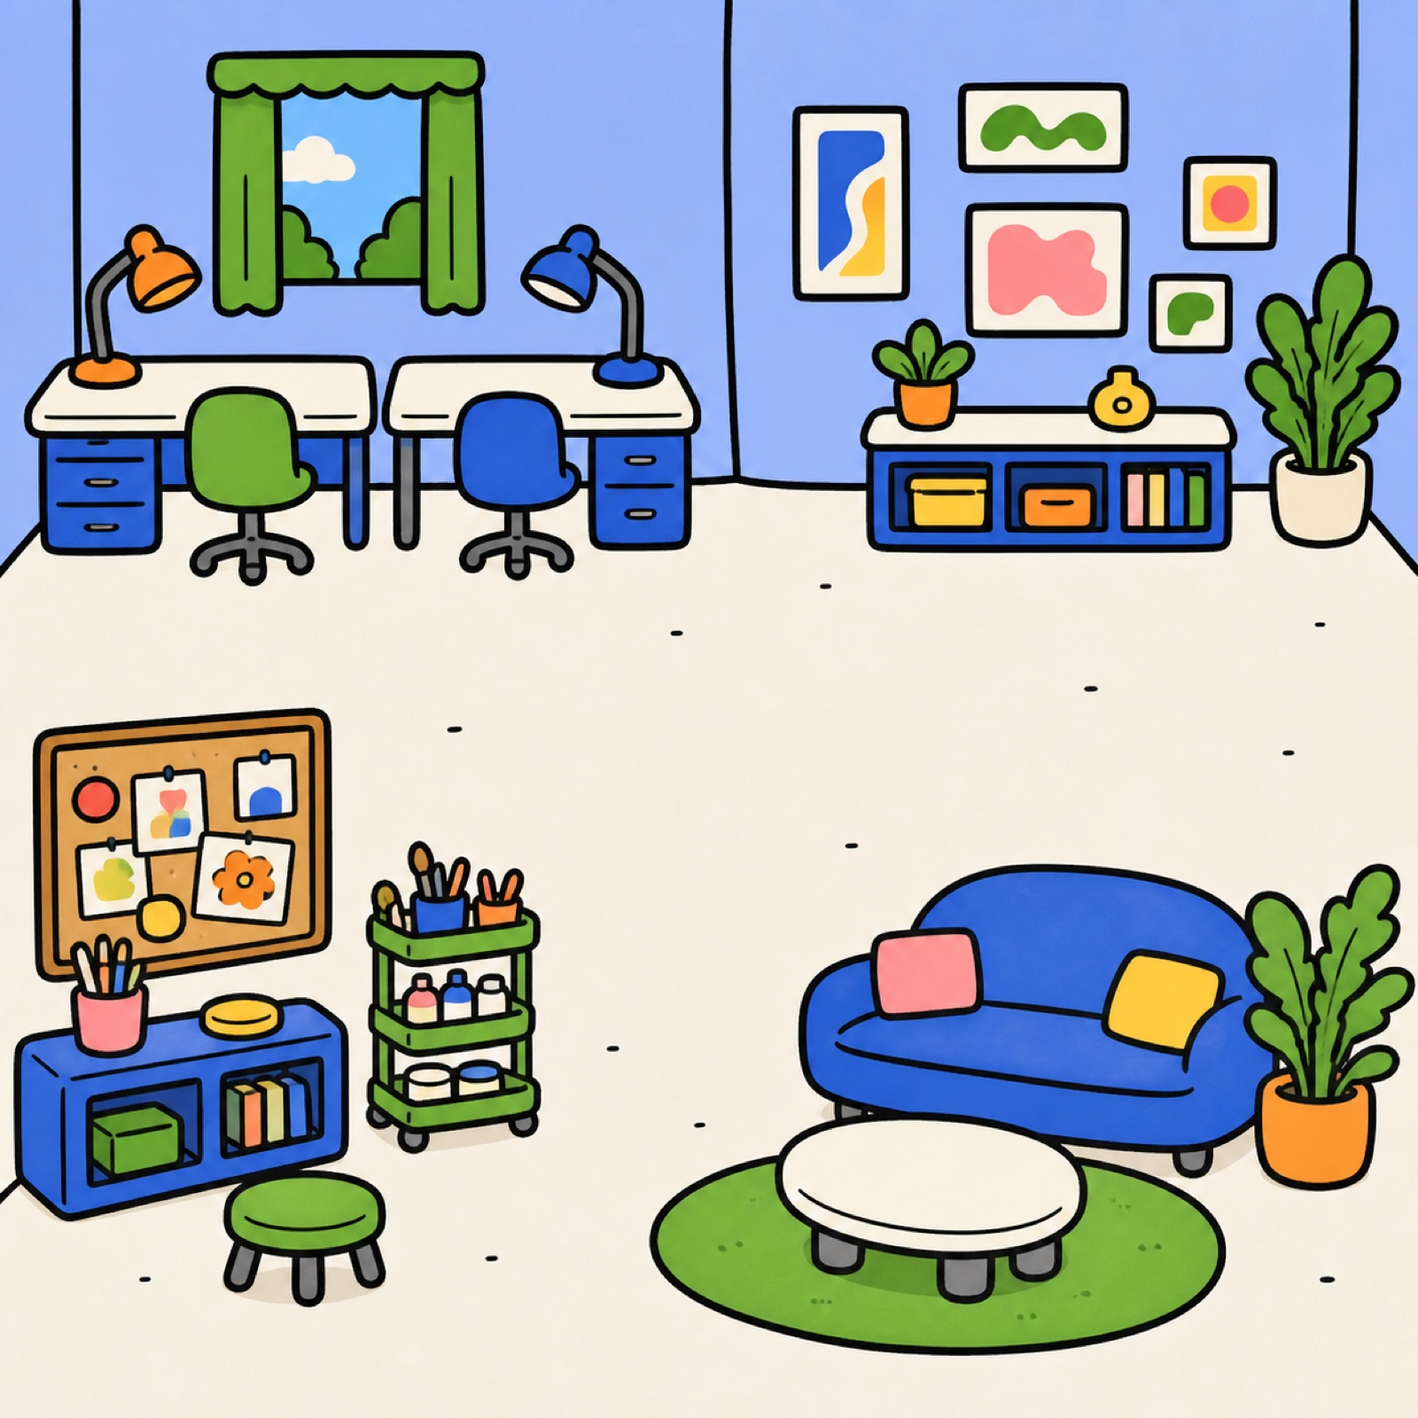
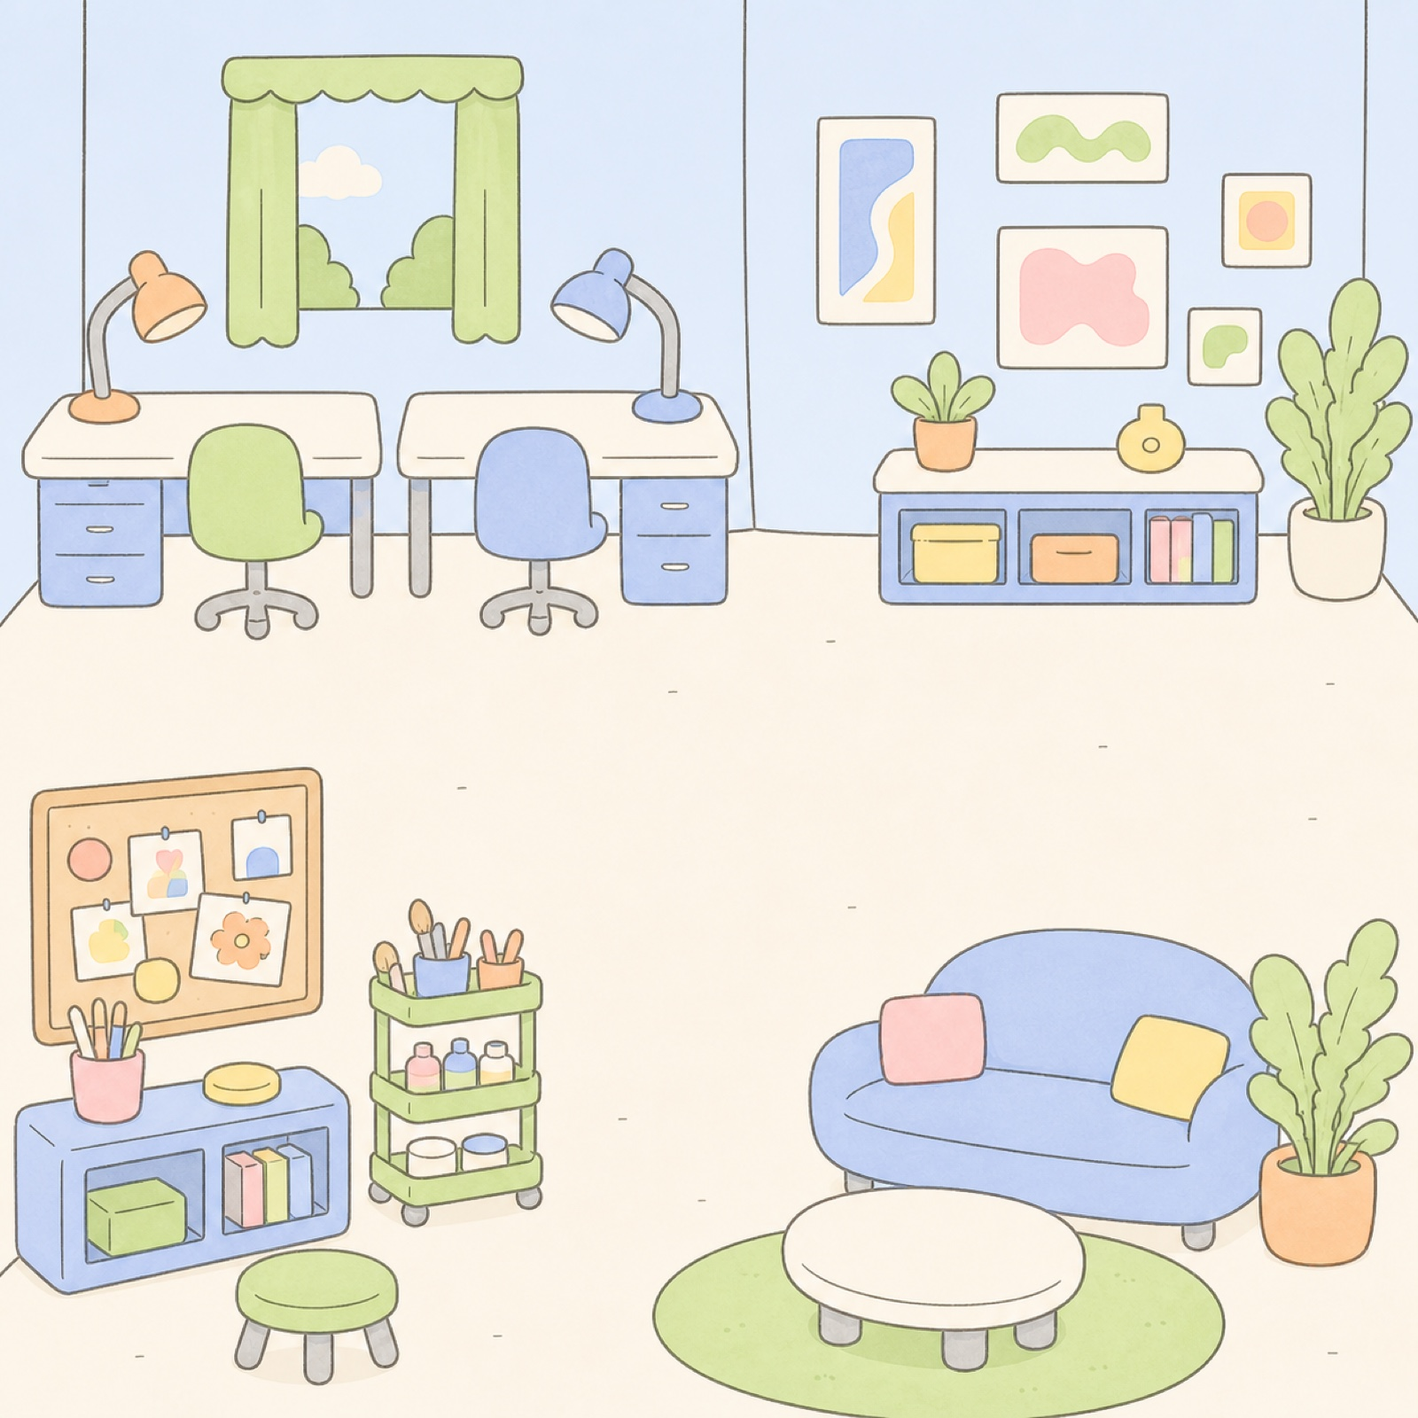
파스텔 공동 작업실을 한 화면 지도로 통합

diff --git a/app/globals.css b/app/globals.css
@@ -339,51 +339,52 @@ body::before { opacity: .15; }
 
 /* OTW cartoon world — bright card-news colors, bold ink lines, fewer dashboard cards. */
 :root {
-  --paper: #edf4ff;
-  --paper-deep: #eef7cf;
+  --paper: #f0f5fc;
+  --paper-deep: #f1f6dc;
   --ink: #17191b;
-  --green: #58a84f;
-  --moss: #508b50;
-  --sage: #b8dc85;
-  --blue: #668cf0;
-  --apricot: #ffad4f;
-  --pink: #ff91ab;
+  --green: #93bf82;
+  --moss: #6f9d72;
+  --sage: #c7dda2;
+  --blue: #9fb7ea;
+  --apricot: #f2bc7a;
+  --pink: #efafbe;
   --line: #242424;
   --white: #fffefa;
   --shadow: none;
 }
 
-html { background: #dbe9ff; }
-body { background: #edf4ff; color: var(--ink); }
+html { background: #e3ebf7; }
+body { background: #f0f5fc; color: var(--ink); }
 body::before { opacity: .1; background-image: radial-gradient(#315a9e .65px, transparent .7px); background-size: 15px 15px; }
 button:focus-visible, input:focus-visible, textarea:focus-visible, label:has(input:focus-visible) { outline-color: rgba(78,123,224,.42); }
 
 .eyebrow { color: #3972ca; letter-spacing: .12em; }
 .paper-card { border: 1.5px solid var(--ink); border-radius: 14px; background: #fffefa; }
 .primary-button, .secondary-button { min-height: 48px; border: 1.5px solid var(--ink); border-radius: 11px; box-shadow: 3px 3px 0 var(--ink); }
-.primary-button { color: #fff; background: #4c79e5; }
+.primary-button { color: #192b4c; background: #9fb7ea; }
 .primary-button:active, .secondary-button:active { transform: translate(3px, 3px); box-shadow: none; }
 .primary-button:disabled { border-color: #899384; color: #f5f5ef; background: #a9bba8; box-shadow: none; }
 .secondary-button { background: #eef7cf; }
 .text-input, .completion-modal textarea, .enrollment-card textarea, .teacher-note textarea, .roster-manager textarea { border: 1.5px solid var(--ink); border-radius: 9px; background: #fff; }
 .success-message { margin: 0; color: #31773b; font-size: 11px; font-weight: 800; }
 
-.signin-shell, .enrollment-shell, .onboarding-shell { background: linear-gradient(150deg, #edf4ff 0 58%, #eef7cf 58%); }
+.signin-shell, .enrollment-shell, .onboarding-shell { background: linear-gradient(150deg, #f0f5fc 0 58%, #f1f6dc 58%); }
 .signin-card, .enrollment-card, .onboarding-card { border: 1.5px solid var(--ink); border-radius: 16px; background: #fffefa; box-shadow: 6px 6px 0 rgba(23,25,27,.9); }
-.signin-button { border: 1.5px solid var(--ink); border-radius: 10px; color: #fff; background: #4c79e5; box-shadow: 3px 3px 0 var(--ink); }
+.signin-button { border: 1.5px solid var(--ink); border-radius: 10px; color: #192b4c; background: #9fb7ea; box-shadow: 3px 3px 0 var(--ink); }
 .student-results button, .preset-grid button { border: 1.5px solid var(--ink); border-radius: 10px; background: #fff; }
 .student-results button.selected, .preset-grid button.selected { border: 2px solid var(--ink); background: #eef7cf; box-shadow: 3px 3px 0 #4c79e5; }
 .character-nameplate { border: 1.5px solid var(--ink); background: #fff; box-shadow: 2px 2px 0 var(--ink); }
-.onboarding-promise > span { border: 2px solid var(--ink); background: #4c79e5; box-shadow: 3px 3px 0 var(--ink); }
+.onboarding-promise > span { border: 2px solid var(--ink); color: #192b4c; background: #9fb7ea; box-shadow: 3px 3px 0 var(--ink); }
 
 .character-image.official { mix-blend-mode: normal; filter: drop-shadow(0 5px 0 rgba(0,0,0,.08)) !important; }
+.character-image { max-width: none; }
 .preset-grid .character-image { width: 76px; height: 76px; }
 .preset-grid button { min-height: 112px; }
 .preset-grid button > span { color: #3d65b4; font-size: 10px; text-transform: lowercase; }
 
-.app-shell { border-inline: 1.5px solid var(--ink); background: linear-gradient(180deg, #edf4ff 0%, #f7fbec 100%); }
+.app-shell { border-inline: 1.5px solid var(--ink); background: linear-gradient(180deg, #f0f5fc 0%, #f7faed 100%); }
 .brand-bar { border-bottom: 1.5px solid var(--ink); background: rgba(255,254,250,.96); }
-.brand-mark { border: 1.5px solid var(--ink); border-radius: 9px; color: #fff; background: #4c79e5; }
+.brand-mark { border: 1.5px solid var(--ink); border-radius: 9px; color: #192b4c; background: #9fb7ea; }
 .brand-bar .profile-chip { border: 1.5px solid var(--ink); border-radius: 10px; background: #fff; box-shadow: 2px 2px 0 var(--ink); }
 .panel-stack { gap: 22px; }
 .home-greeting h2, .section-header h2, .record-section h2, .gallery-panel section > h2, .journey-card h2 { color: #17191b; }
@@ -391,7 +392,7 @@ button:focus-visible, input:focus-visible, textarea:focus-visible, label:has(inp
 
 .studio-scene {
   height: 326px;
-  border: 3px solid var(--ink);
+  border: 2px solid var(--ink);
   border-radius: 18px;
   background-color: #86a5ef;
   background-image: url("/studio-room.jpg");
@@ -404,67 +405,139 @@ button:focus-visible, input:focus-visible, textarea:focus-visible, label:has(inp
 .scene-nameplate { bottom: 9px; border: 1.5px solid var(--ink); border-radius: 7px; background: #fff; box-shadow: 2px 2px 0 var(--ink); }
 .character-shadow { display: none; }
 .lamp-glow { top: 88px; right: 50px; background: #fff1a9; box-shadow: 0 0 22px 12px rgba(255,226,119,.76); }
-.room-progress-head button { border: 1.5px solid var(--ink); border-radius: 9px; color: #fff; background: #58a84f; box-shadow: 2px 2px 0 var(--ink); }
+.room-progress-head button { border: 1.5px solid var(--ink); border-radius: 9px; color: #21331f; background: #a8ca96; box-shadow: 2px 2px 0 var(--ink); }
 .progress-track { border: 1px solid rgba(23,25,27,.45); background: #fff; }
-.progress-track i { background: #4c79e5; }
+.progress-track i { background: #9fb7ea; }
 
 .category-pill { border: 1.5px solid var(--ink); border-radius: 9px; background: #fff; }
-.category-pill.active { border-color: var(--ink); color: #fff; background: #4c79e5; box-shadow: 2px 2px 0 var(--ink); }
+.category-pill.active { border-color: var(--ink); color: #192b4c; background: #9fb7ea; box-shadow: 2px 2px 0 var(--ink); }
 .timer-card { border: 2px solid var(--ink); background: #fffefa; }
 .timer-presets { border: 1.5px solid var(--ink); border-radius: 9px; background: #eef4ff; }
 .timer-presets button { border-right-color: var(--ink); }
-.timer-presets button.active { color: #fff; background: #58a84f; }
-.timer-ring { background: conic-gradient(#4c79e5 var(--timer-progress), #dfe9ff 0); }
+.timer-presets button.active { color: #21331f; background: #a8ca96; }
+.timer-ring { background: conic-gradient(#9fb7ea var(--timer-progress), #dfe9f7 0); }
 .timer-ring::before { background: #fffefa; }
 .finish-button { border: 1.5px solid var(--ink); border-radius: 11px; color: var(--ink); background: #eef7cf; box-shadow: 2px 2px 0 var(--ink); }
 
 .message-composer { background: #fffefa; }
-.live-orbit { border: 1.5px solid var(--ink); border-radius: 14px; background: #eef7cf; }
-.together-map { gap: 10px; padding: 10px; border: 3px solid var(--ink); border-radius: 18px; background: #bcd0ff; box-shadow: none; }
-.map-zone {
-  min-height: 320px;
-  padding-top: 42px;
-  border: 2px solid var(--ink);
-  border-radius: 13px;
-  background-color: #edf4ff;
-  background-image: url("/shared-studio.jpg");
-  background-repeat: no-repeat;
-  background-size: 200% 200%;
+.live-orbit { border: 1.5px solid var(--ink); border-radius: 14px; background: #f1f6dc; }
+.together-map {
+  position: relative;
+  width: 100%;
+  min-height: 0;
+  aspect-ratio: 1;
+  display: block;
+  overflow: hidden;
+  padding: 0;
+  border: 1.5px solid rgba(23,25,27,.78);
+  border-radius: 18px;
+  background: #eaf1fa url("/shared-studio.jpg") center / cover no-repeat;
   box-shadow: none;
 }
-.map-zone.working-zone { background-position: left top; }
-.map-zone.gallery-zone { background-position: right top; }
-.map-zone.tips-zone { background-position: left bottom; }
-.map-zone.lounge-zone { background-position: right bottom; }
-.map-zone-title { border: 1.5px solid var(--ink); border-radius: 7px; color: var(--ink); background: #eef7cf; box-shadow: 2px 2px 0 var(--ink); font-size: 10px; }
-.map-friend { height: 216px; }
-.map-friend.mine { border: 1.5px dashed #4c79e5; border-radius: 12px; background: rgba(237,244,255,.42); }
-.floating-name { border: 1.5px solid var(--ink); border-radius: 7px; box-shadow: 2px 2px 0 var(--ink); }
-.map-speech { border: 1.5px solid var(--ink); border-radius: 8px; color: var(--ink); background: #fffefa; }
-.map-speech.personal { color: #315fae; background: #eef7cf; }
-.map-avatar .character-image { width: 100px; height: 100px; filter: none; }
-.map-friend.working .map-avatar .character-image { width: 126px; height: 126px; }
-.map-chair span { border: 2px solid var(--ink); background: #58a84f; }
-.map-chair i, .map-chair::after { border: 1px solid var(--ink); background: #40464a; }
-.map-desk > span { border: 2px solid var(--ink); background: #fff6dc; }
-.map-desk > i { border: 2px solid var(--ink); background: #4c79e5; }
-.map-empty { padding: 4px 7px; border: 1px solid var(--ink); border-radius: 7px; color: var(--ink); background: rgba(255,254,250,.86); }
-.map-strip-hint { color: #43659c; }
+.map-people { position: absolute; z-index: 7; inset: 0; min-height: 0; display: block; }
+.map-area-label {
+  position: absolute;
+  z-index: 6;
+  padding: 4px 7px;
+  border: 1px solid rgba(23,25,27,.42);
+  border-radius: 7px;
+  color: #405578;
+  background: rgba(255,254,250,.8);
+  backdrop-filter: blur(4px);
+  font-size: 7px;
+  font-weight: 850;
+  letter-spacing: -.02em;
+}
+.working-label { top: 3%; left: 3%; }
+.gallery-label { top: 3%; right: 3%; }
+.tips-label { bottom: 44%; left: 3%; }
+.lounge-label { right: 3%; bottom: 44%; }
+.together-map .map-friend {
+  position: absolute;
+  left: var(--map-x);
+  top: var(--map-y);
+  width: 78px;
+  height: 105px;
+  display: block;
+  padding: 0;
+  transform: translate(-50%, -50%);
+  transition: left 1.6s ease, top 1.6s ease;
+  pointer-events: none;
+}
+.together-map .map-friend.idle { animation: map-stroll 9.5s ease-in-out var(--wander-delay) infinite; }
+.together-map .map-friend.mine::after {
+  content: "";
+  position: absolute;
+  z-index: -1;
+  inset: 12px 1px -2px;
+  border: 1px dashed rgba(75,112,179,.55);
+  border-radius: 50%;
+  background: rgba(240,245,252,.28);
+}
+.together-map .floating-name {
+  top: -1px;
+  max-width: 80px;
+  padding: 3px 6px;
+  border: 1px solid rgba(23,25,27,.72);
+  border-radius: 6px;
+  background: rgba(255,254,250,.94);
+  box-shadow: 1.5px 1.5px 0 rgba(23,25,27,.72);
+  font-size: 7px;
+}
+.together-map .map-speech {
+  top: 21px;
+  width: 76px;
+  min-height: 25px;
+  padding: 3px 5px;
+  border: 1px solid rgba(23,25,27,.58);
+  border-radius: 7px;
+  color: var(--ink);
+  background: rgba(255,254,250,.91);
+  font-size: 5.5px;
+  line-height: 1.25;
+}
+.together-map .map-speech.personal { color: #45628f; background: rgba(241,246,220,.94); }
+.together-map .map-avatar { position: absolute; left: 50%; bottom: 0; transform: translateX(-50%); }
+.together-map .map-avatar .character-image { width: 64px; height: 64px; filter: drop-shadow(0 3px 0 rgba(60,66,72,.1)); }
+.together-map .map-friend.working { width: 94px; height: 120px; }
+.together-map .map-friend.working .map-avatar { z-index: 4; bottom: 15px; margin: 0; }
+.together-map .map-friend.working .map-avatar .character-image { width: 82px; height: 82px; }
+.together-map .map-friend.working .map-chair { bottom: 2px; width: 42px; height: 50px; }
+.together-map .map-friend.working .map-chair span { border: 1px solid rgba(23,25,27,.72); background: #b5cba9; }
+.together-map .map-friend.working .map-chair i,
+.together-map .map-friend.working .map-chair::after { border: 0; background: #68706d; }
+.together-map .map-friend.working .map-desk { left: 5px; right: 5px; bottom: 0; height: 34px; }
+.together-map .map-friend.working .map-desk > span { height: 7px; border: 1px solid rgba(23,25,27,.72); background: #f6dfbd; }
+.together-map .map-friend.working .map-desk > i { top: 6px; width: 4px; height: 27px; border: 1px solid rgba(23,25,27,.6); background: #aabce0; }
+.together-map.dense .map-friend { width: 68px; height: 94px; }
+.together-map.dense .map-avatar .character-image { width: 54px; height: 54px; }
+.together-map.dense .floating-name { max-width: 66px; font-size: 6px; }
+.together-map.dense .map-speech { width: 64px; font-size: 5px; }
+.together-map.dense .map-friend.working { width: 78px; height: 105px; }
+.together-map.dense .map-friend.working .map-avatar .character-image { width: 68px; height: 68px; }
+.map-strip-hint { color: #58709b; }
+
+@keyframes map-stroll {
+  0%, 16%, 100% { transform: translate(-50%, -50%) translate(0, 0); }
+  38%, 52% { transform: translate(-50%, -50%) translate(var(--wander-x-a), var(--wander-y-a)); }
+  76%, 88% { transform: translate(-50%, -50%) translate(var(--wander-x-b), var(--wander-y-b)); }
+}
 .quiet-rule { background: #eef7cf; }
 
 .news-card { background: #eef7cf; }
 .calendar-card, .session-row, .empty-state { background: #fffefa; }
 .session-row, .empty-state { border: 1.5px solid var(--ink); border-radius: 12px; }
-.days span.worked { border: 1px solid var(--ink); background: #4c79e5; }
-.gallery-hero { border: 2px solid var(--ink); border-radius: 15px; color: #fff; background: #4c79e5; }
+.days span.worked { border: 1px solid var(--ink); color: #192b4c; background: #9fb7ea; }
+.gallery-hero { border: 1.5px solid var(--ink); border-radius: 15px; color: #192b4c; background: #9fb7ea; }
 .gallery-hero::after { color: rgba(255,255,255,.18); }
+.gallery-hero .eyebrow, .gallery-hero > span { color: #405578; }
 .my-wall article, .gallery-grid article { border: 1.5px solid var(--ink); border-radius: 11px; background: #fff; }
 .my-wall img, .shared-artwork { border-radius: 6px; }
 .mission-card { background: #eef7cf; }
 .teacher-note { background: #edf4ff; }
 .teacher-note > span { border: 1.5px solid var(--ink); border-radius: 10px; color: #fff; background: #ff91ab; }
 .journey-card { background: #fffefa; }
-.journey-row.open > span { border: 1.5px solid var(--ink); border-radius: 10px; background: #4c79e5; }
+.journey-row.open > span { border: 1.5px solid var(--ink); border-radius: 10px; color: #192b4c; background: #9fb7ea; }
 
 .roster-manager { display: grid; gap: 12px; background: #fff4d8; }
 .roster-manager h2 { margin: 3px 0 0; font-size: 22px; }
@@ -483,9 +556,10 @@ button:focus-visible, input:focus-visible, textarea:focus-visible, label:has(inp
 .artwork-picker, .template-preview, .guide-list { border: 1.5px solid var(--ink); border-radius: 11px; background: #fff; }
 .bottom-nav { border-top: 1.5px solid var(--ink); background: rgba(255,254,250,.98); }
 .bottom-nav button.active { color: #315fae; }
-.bottom-nav button.active span { background: #4c79e5; }
+.bottom-nav button.active span { background: #879fd2; }
 
 @media (max-width: 380px) {
   .studio-scene { height: 296px; }
-  .map-zone { min-height: 300px; }
+  .map-area-label { font-size: 6.5px; }
+  .together-map .map-friend { transform: translate(-50%, -50%) scale(.92); }
 }

diff --git a/app/studio.tsx b/app/studio.tsx
@@ -692,6 +692,21 @@ const idleLines = [
 const idlePlaces = ["gallery", "tips", "lounge"] as const;
 type MapPlace = "working" | (typeof idlePlaces)[number];
 type MapMember = SharedFriend & { mine?: boolean };
+type MapSpot = { x: number; y: number };
+
+const mapSpots: Record<MapPlace, MapSpot[]> = {
+  working: [{ x: 21, y: 29 }, { x: 39, y: 29 }, { x: 30, y: 39 }],
+  gallery: [{ x: 68, y: 29 }, { x: 82, y: 36 }, { x: 72, y: 43 }],
+  tips: [{ x: 19, y: 67 }, { x: 35, y: 65 }, { x: 27, y: 80 }],
+  lounge: [{ x: 65, y: 68 }, { x: 82, y: 69 }, { x: 74, y: 82 }],
+};
+
+const mapAreaLabels: Array<{ place: MapPlace; title: string }> = [
+  { place: "working", title: "집중 책상" },
+  { place: "gallery", title: "작은 전시장" },
+  { place: "tips", title: "팁 게시판" },
+  { place: "lounge", title: "쉬는 자리" },
+];
 
 function stringSeed(value: string) {
   return [...value].reduce((sum, character) => (sum * 31 + character.charCodeAt(0)) >>> 0, 17);
@@ -702,13 +717,25 @@ function placeFor(friend: MapMember, clock: number): MapPlace {
   return idlePlaces[(stringSeed(friend.id) + Math.floor(clock / 180_000)) % idlePlaces.length];
 }
 
-function MapFriend({ friend, clock }: { friend: MapMember; clock: number }) {
+function MapFriend({ friend, clock, spot, order }: { friend: MapMember; clock: number; spot: MapSpot; order: number }) {
   const working = friend.mode === "working";
+  const seed = stringSeed(friend.id);
   const fallback = working
     ? `${categoryTitle(friend.category)} · ${Math.max(0, Math.floor((clock - friend.startedAt) / 60_000))}분째`
-    : idleLines[(stringSeed(friend.id) + Math.floor(clock / 120_000)) % idleLines.length];
+    : idleLines[(seed + Math.floor(clock / 120_000)) % idleLines.length];
+  const direction = seed % 2 === 0 ? 1 : -1;
+  const mapStyle = {
+    "--map-x": `${spot.x}%`,
+    "--map-y": `${spot.y}%`,
+    "--wander-x-a": `${direction * (10 + seed % 8)}px`,
+    "--wander-y-a": `${-5 - seed % 6}px`,
+    "--wander-x-b": `${direction * (-7 - seed % 7)}px`,
+    "--wander-y-b": `${4 + seed % 5}px`,
+    "--wander-delay": `${-(seed % 8_000)}ms`,
+    zIndex: 10 + order,
+  } as CSSProperties;
   return (
-    <article className={`map-friend${working ? " working" : ""}${friend.mine ? " mine" : ""}`}>
+    <article style={mapStyle} className={`map-friend${working ? " working" : " idle"}${friend.mine ? " mine" : ""}`}>
       <span className="floating-name">{friend.nickname || friend.name}{friend.mine ? " · 나" : ""}</span>
       <span className={`map-speech${friend.message ? " personal" : ""}`}>{friend.message || fallback}</span>
       <div className="map-avatar"><Character profile={{ name: friend.name, nickname: friend.nickname, characterPreset: friend.characterPreset, characterDataUrl: friend.characterDataUrl }} /></div>
@@ -718,13 +745,41 @@ function MapFriend({ friend, clock }: { friend: MapMember; clock: number }) {
   );
 }
 
-function MapZone({ title, place, members, clock }: { title: string; place: MapPlace; members: MapMember[]; clock: number }) {
+function SharedMap({ members, clock }: { members: MapMember[]; clock: number }) {
+  const placeCounts: Record<MapPlace, number> = { working: 0, gallery: 0, tips: 0, lounge: 0 };
+  const arranged = members.map((member) => {
+    const preferredPlace = placeFor(member, clock);
+    const place = preferredPlace === "working"
+      ? preferredPlace
+      : [...idlePlaces].sort((left, right) => {
+          const countDifference = placeCounts[left] - placeCounts[right];
+          if (countDifference !== 0) return countDifference;
+          const preferredIndex = idlePlaces.indexOf(preferredPlace);
+          const leftDistance = (idlePlaces.indexOf(left) - preferredIndex + idlePlaces.length) % idlePlaces.length;
+          const rightDistance = (idlePlaces.indexOf(right) - preferredIndex + idlePlaces.length) % idlePlaces.length;
+          return leftDistance - rightDistance;
+        })[0];
+    const placeOrder = placeCounts[place];
+    placeCounts[place] += 1;
+    const spots = mapSpots[place];
+    const base = spots[placeOrder % spots.length];
+    const overflowRow = Math.floor(placeOrder / spots.length);
+    return {
+      member,
+      place,
+      spot: {
+        x: Math.max(7, Math.min(93, base.x + (overflowRow % 2 === 0 ? overflowRow * 2 : -overflowRow * 2))),
+        y: Math.max(12, Math.min(88, base.y + Math.floor(overflowRow / 2) * 7)),
+      },
+    };
+  });
   return (
-    <section className={`map-zone ${place}-zone`}>
-      <span className="map-zone-title">{title}</span>
-      <div className="map-people">{members.map((member) => <MapFriend key={member.id} friend={member} clock={clock} />)}</div>
-      {members.length === 0 && <small className="map-empty">아직 조용해요</small>}
-    </section>
+    <div className={`together-map${members.length > 8 ? " dense" : ""}`} aria-label="수강생들이 머무는 한 화면 공동 작업실 지도">
+      {mapAreaLabels.map(({ place, title }) => <span key={place} className={`map-area-label ${place}-label`}>{title}</span>)}
+      <div className="map-people">
+        {arranged.map(({ member, spot }, order) => <MapFriend key={member.id} friend={member} clock={clock} spot={spot} order={order} />)}
+      </div>
+    </div>
   );
 }
 
@@ -770,18 +825,8 @@ function TogetherPanel({ profile, activeFriends, running, elapsed, category, clo
         {messageError && <p className="error-message" role="alert">{messageError}</p>}
         <small>등록한 메시지는 함께 작업 중인 수강생에게 보여요.</small>
       </form>
-      <div className="together-map" aria-label="수강생들이 머무는 공동 작업실 지도">
-        {(["working", "gallery", "tips", "lounge"] as MapPlace[]).map((place) => (
-          <MapZone
-            key={place}
-            place={place}
-            title={{ working: "집중 책상", gallery: "작은 전시장", tips: "팁 게시판", lounge: "쉬는 자리" }[place]}
-            members={members.map((member) => member.mine ? { ...member, message } : member).filter((member) => placeFor(member, clock) === place)}
-            clock={clock}
-          />
-        ))}
-      </div>
-      <p className="map-strip-hint">옆으로 넘기면 다른 공간도 볼 수 있어요.</p>
+      <SharedMap members={members.map((member) => member.mine ? { ...member, message } : member)} clock={clock} />
+      <p className="map-strip-hint">집중 중인 친구는 책상에, 쉬는 친구는 전시와 소파 주변에 머물러요.</p>
       <section className="paper-card quiet-rule"><b>♥ 이 공간에는 순위가 없어요</b><p>오래 한 사람보다 오늘 시작한 사람을 반겨요. 집중을 끝내면 캐릭터도 조용히 자기 작업실로 돌아갑니다.</p></section>
     </div>
   );
